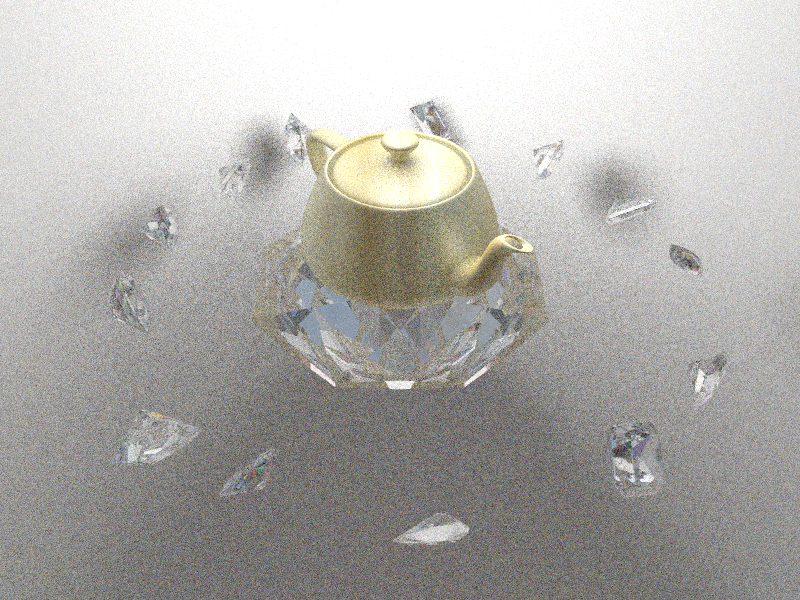
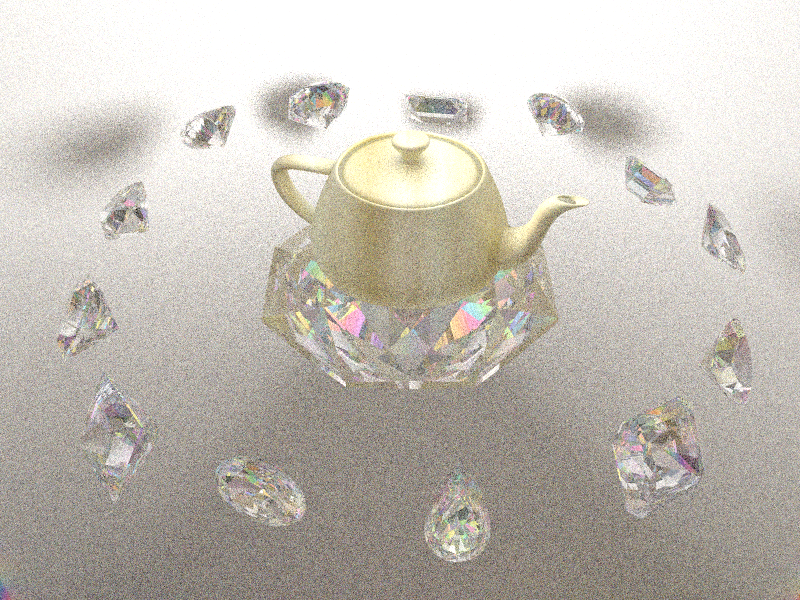
save

diff --git a/RayTracingRenderer/RayTracingRenderer/RayTracingRenderer.cpp b/RayTracingRenderer/RayTracingRenderer/RayTracingRenderer.cpp
@@ -40,7 +40,7 @@ int main()
 	//oadScene(".\\xmlfiles\\playground5.xml");
 	//LoadScene(".\\xmlfiles\\catscene.xml");
 	//LoadScene(".\\xmlfiles\\potscene.xml");
-	LoadScene(".\\xmlfiles\\rainbowteapot.xml");
+	LoadScene(".\\xmlfiles\\rainbowteapot2.xml");
 	//LoadScene(".\\xmlfiles\\assignment11.xml");
 	//LoadScene(".\\xmlfiles\\bosonscene.xml");
 	//LoadScene(".\\xmlfiles\\raytracinglogo.xml");
